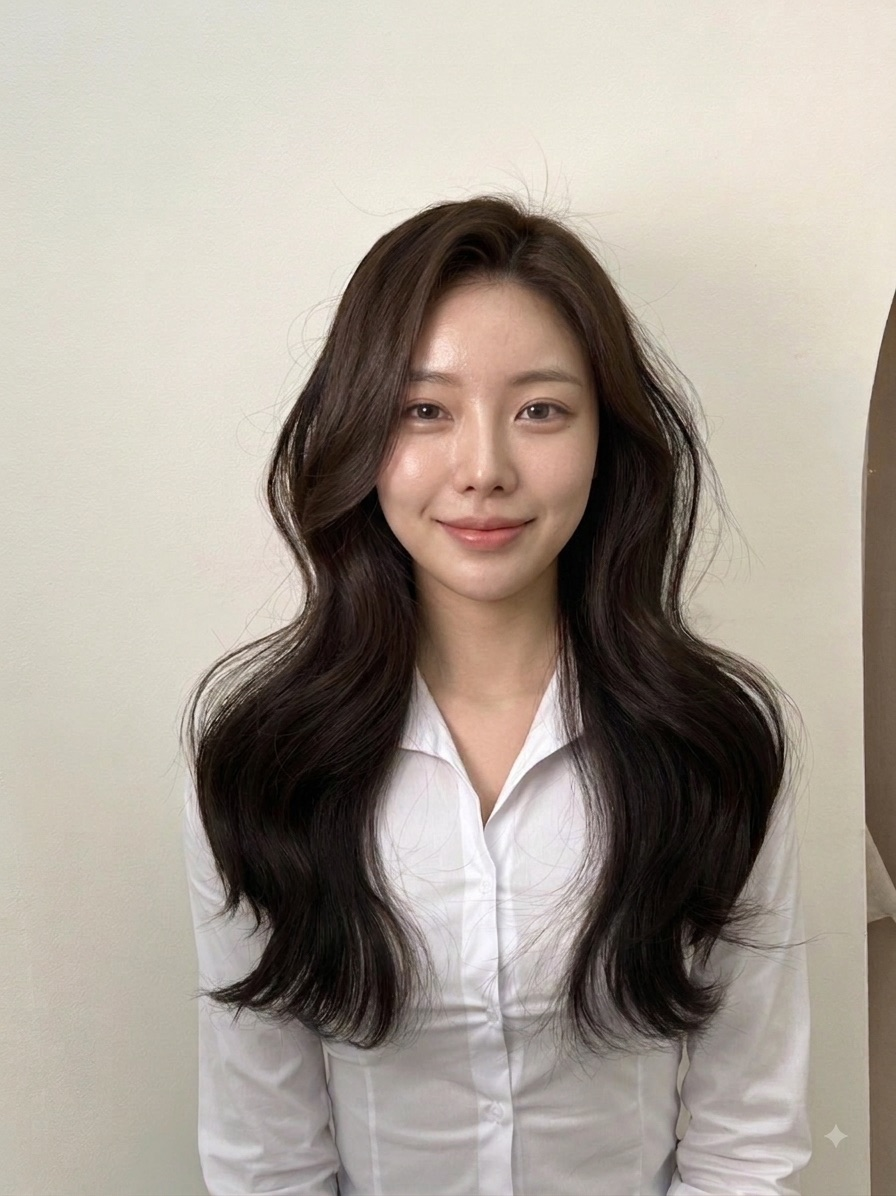
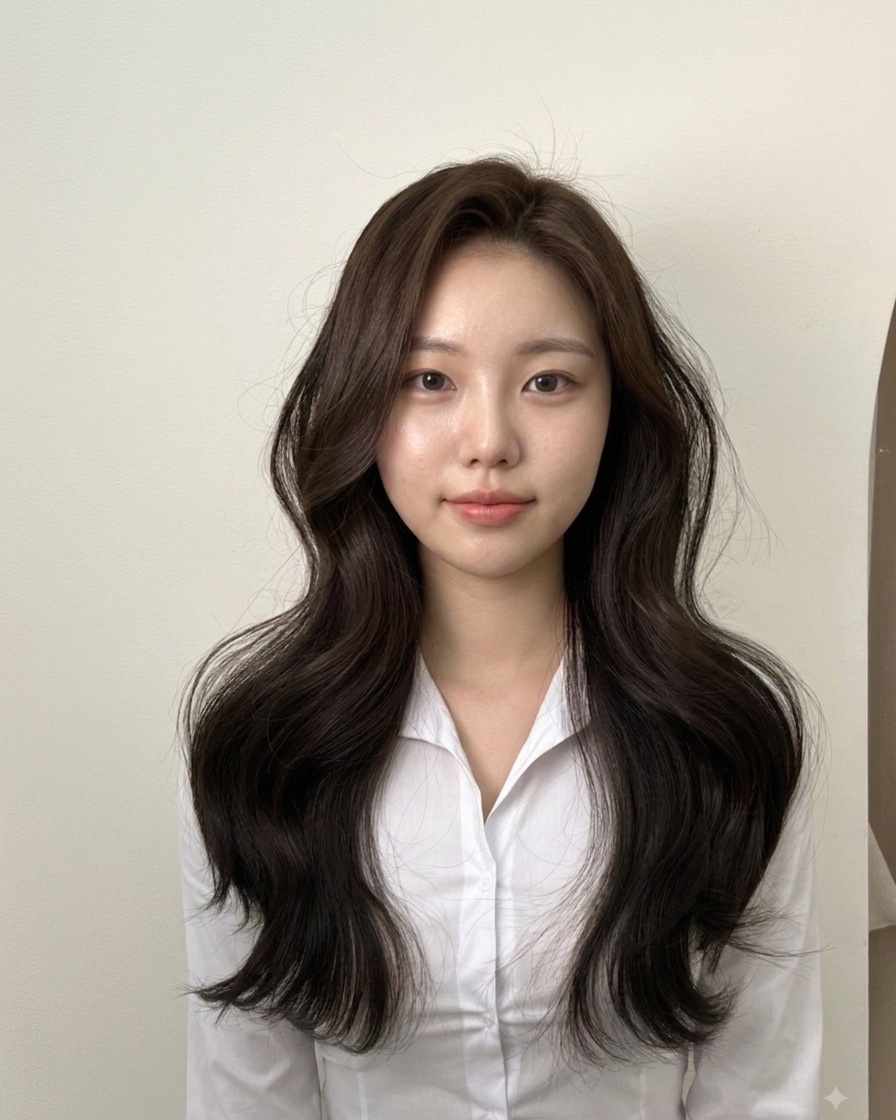
feat: 랜딩 슬라이더 사진 짝을 실서버 산출물로 교체 — 픽셀 싱크 확보
- 원본: 제미나이 합성 인물(실존 아님) → 레포 안전. 실제 시술 원본은
  모델 동의 범위 때문에 못 넣는다(salon-testset/사용조건.txt)
- 결과: 그 원본을 실서버 얼굴 교체로 돌린 산출물 (ref-01, seed 1157062057)
- 싱크 해법: 서버가 4:5로 자를 때 얼굴 기준 재프레이밍을 하므로 원본을
  미리 4:5 중앙 크롭으로 보냈다. 입력이 4:5면 재프레이밍이 없어
  슬라이더의 두 장이 픽셀 단위로 겹친다

Changed region(s): [[0.1875, 0.125, 0.9375, 1.0], [0.9375, 0.25, 1.0, 0.8438], [0.7812, 0.6562, 0.8125, 0.6875]]

diff --git a/frontend/src/app/page.tsx b/frontend/src/app/page.tsx
@@ -17,8 +17,13 @@ import { Card, CardContent } from "@/components/ui/card";
  * 랜딩 홈 (2026-08-15 시안 확정, docs/시안/landing.html).
  *
  * - 히어로 카피는 원장님 확정안: 비교 대상(모델 작업)을 아는 현업의 언어를 그대로 쓴다
- * - 사진은 이 서비스로 실제 시술 사진을 얼굴 교체해 만든 결과물(landing-hero-swap) —
- *   원본 사진은 레포에 넣지 않는 조건이고, 결과물은 공유 가능 범위다
+ * - 사진 짝(8/17 교체): 원본 자리는 제미나이로 만든 합성 인물(landing-hero-before,
+ *   실존 인물 아님), 결과는 그 사진을 실서버 얼굴 교체(ref-01, seed 1157062057)로
+ *   돌린 산출물(landing-hero-swap)이다. 실제 시술 원본은 모델 동의 범위 때문에
+ *   레포에 넣을 수 없다 — salon-testset/사용조건.txt
+ * - 짝의 싱크: 서버가 4:5로 자를 때 얼굴 기준으로 재프레이밍하므로, 원본을 그대로
+ *   보내면 결과와 배율이 어긋난다. 그래서 미리 4:5 중앙 크롭으로 잘라 보냈다 —
+ *   입력이 이미 4:5면 재프레이밍이 사실상 없어 화면의 두 장이 픽셀 단위로 겹친다
  * - 색은 전부 토큰이라 화면 색 6종을 그대로 따라간다
  */
 
@@ -148,11 +153,7 @@ export default function Home() {
           </Link>
         </div>
 
-        {/*
-          진짜로 움직이는 확인 슬라이더 — 얼굴 교체 화면과 같은 컴포넌트를 쓴다(8/17).
-          원본 자리는 제미나이로 만든 합성 인물이다(실존 인물 아님). 실제 시술 원본은
-          모델 동의 범위 때문에 레포에 넣을 수 없다 — salon-testset/사용조건.txt.
-        */}
+        {/* 진짜로 움직이는 확인 슬라이더 — 얼굴 교체 화면과 같은 컴포넌트, 위 사진 짝 사용 */}
         <div className="mx-auto w-full max-w-sm shadow-lg">
           <BeforeAfterSlider
             beforeUrl="/sample-assets/landing-hero-before.jpg"
